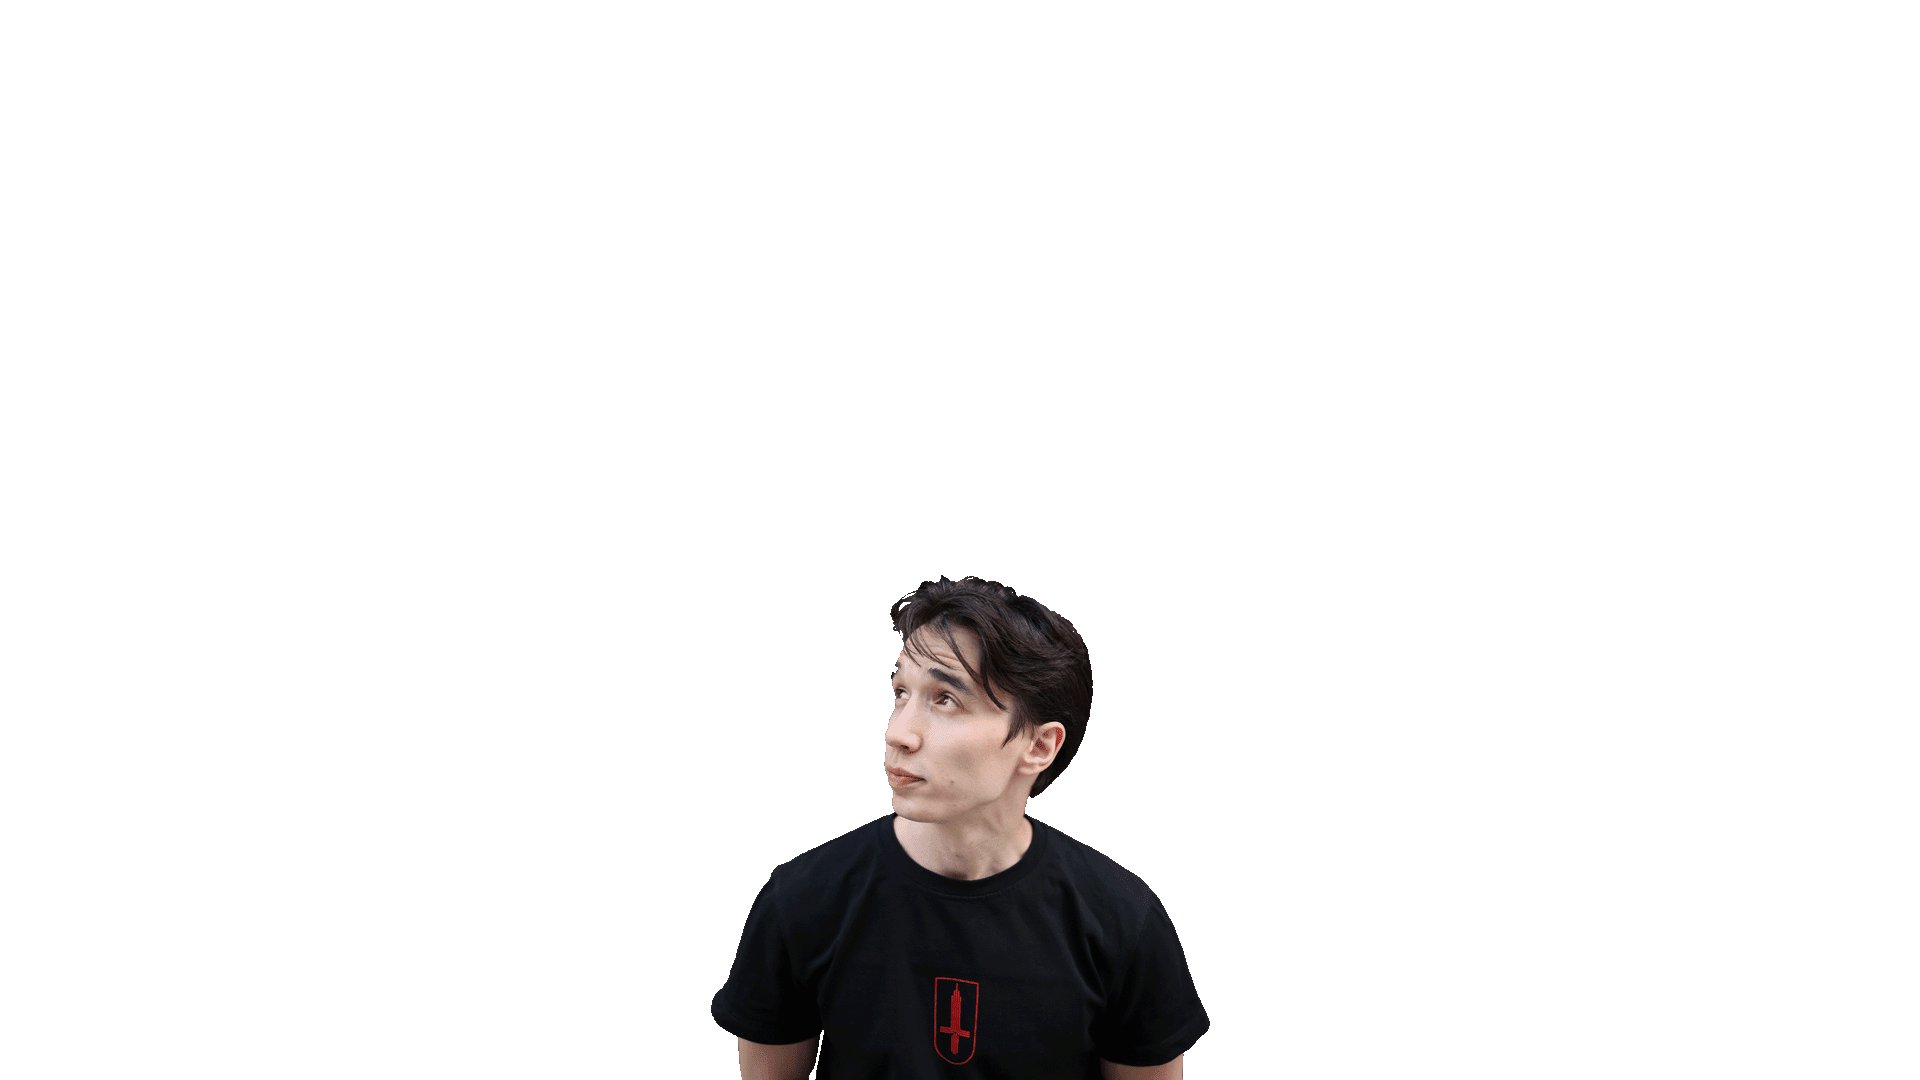
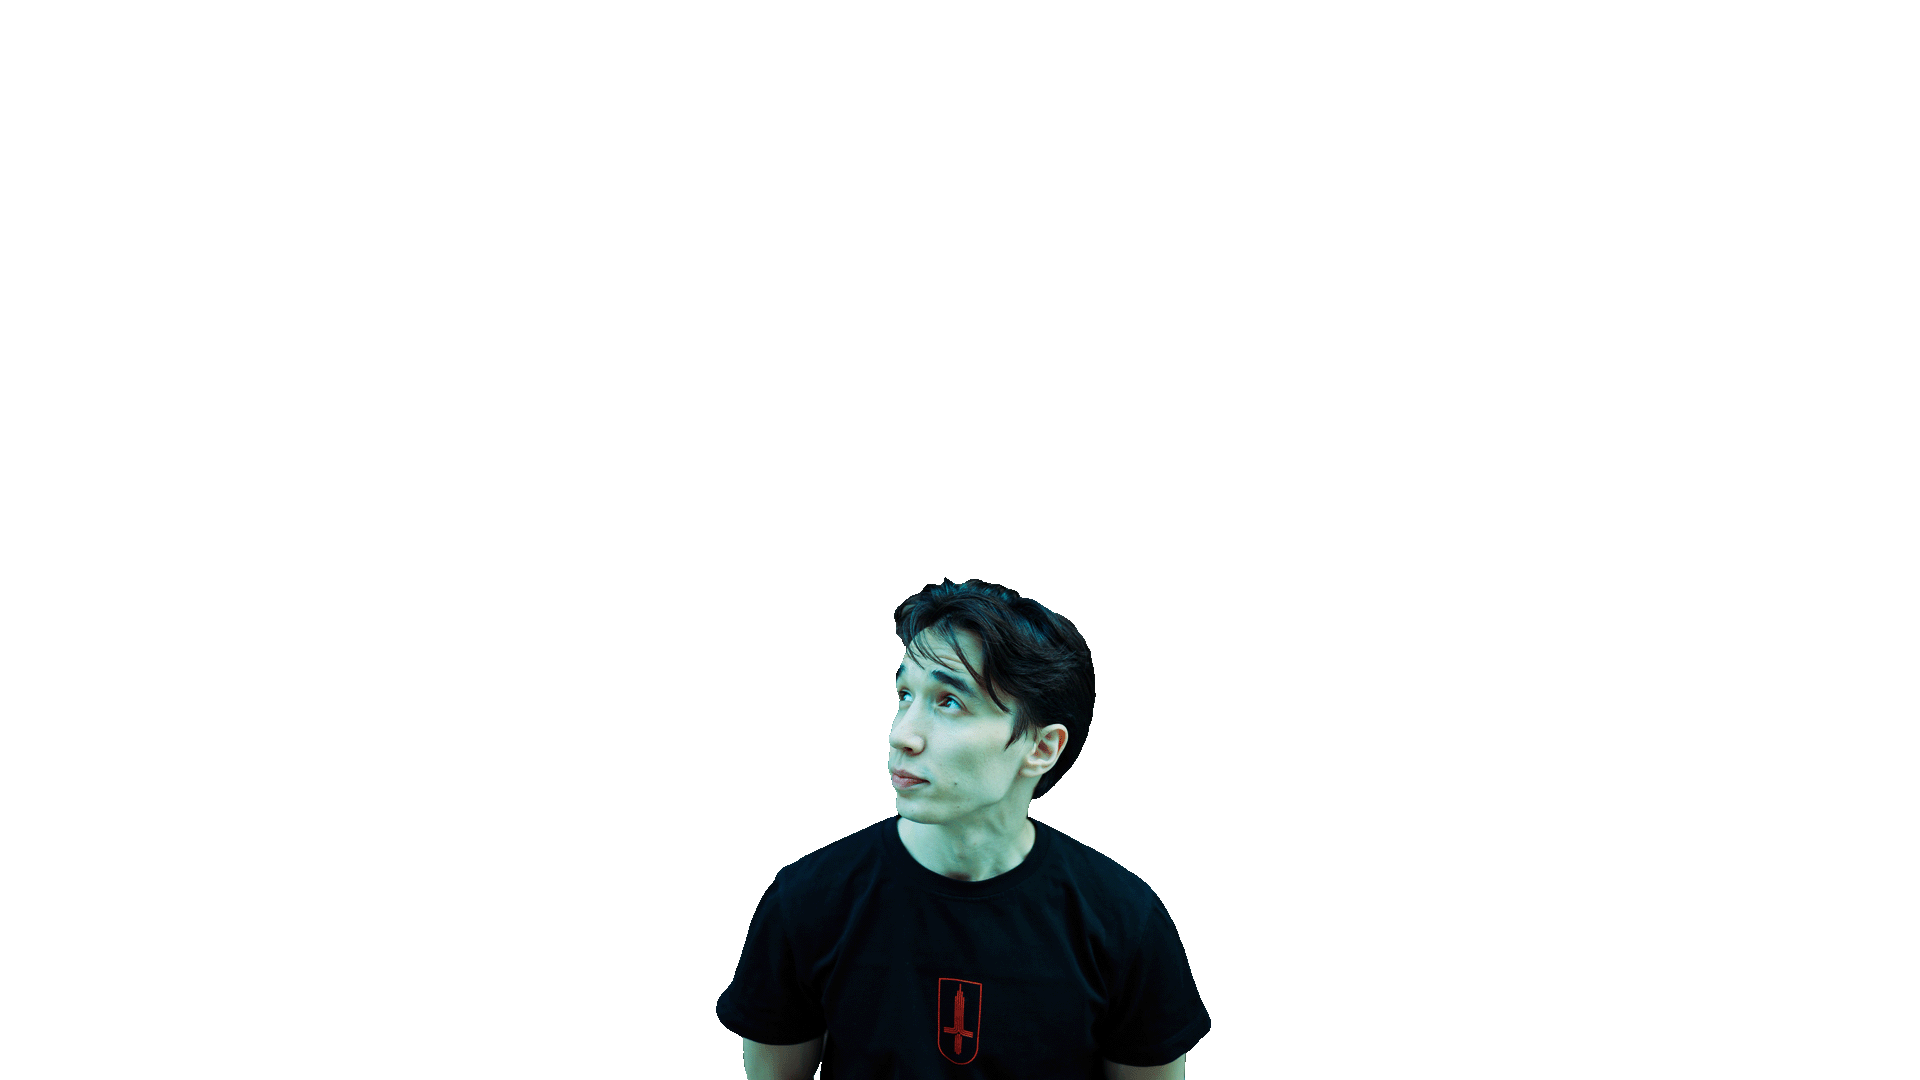
замена файлов и быстрофикс

diff --git a/src/pages/HomePage.jsx b/src/pages/HomePage.jsx
@@ -226,14 +226,14 @@ export default function HomePage() {
     setDialogueIndex(prev => prev + 1);
   };
 
-  // Зеркальный параллакс: стена и персонаж в противофазе
+  // Зеркальный параллакс с уменьшенным смещением Ramzez
   const backgroundOffset = {
     x: (isMobile ? gyroOffsets.layer1.x : layer1.x) * 2.5,
     y: (isMobile ? gyroOffsets.layer1.y : layer1.y) * 0.5,
   };
   const personaOffset = {
-    x: -backgroundOffset.x * 0.4, // зеркально с меньшей амплитудой
-    y: -backgroundOffset.y * 0.2,
+    x: -backgroundOffset.x * 0.15, // было 0.4, теперь плавнее
+    y: -backgroundOffset.y * 0.1,
   };
 
   const offsets = isMobile ? gyroOffsets : { layer1, layer2, layer3 };
@@ -416,8 +416,8 @@ export default function HomePage() {
                   style={{
                     left: isMobile ? '10%' : '25%',
                     bottom: '40%',
-                    width: '96px',
-                    height: '96px',
+                    width: '110px',
+                    height: '110px',
                   }}
                   onClick={handleTreatsClick}
                   variants={{
@@ -435,7 +435,7 @@ export default function HomePage() {
                     alt="Чай"
                     className="w-full h-full object-contain"
                     style={{
-                      filter: 'drop-shadow(0 0 15px rgba(255,80,80,0.6))',
+                      filter: 'drop-shadow(0 0 18px rgba(255,80,80,0.8)) drop-shadow(0 0 8px rgba(255,80,80,0.4))',
                     }}
                     animate={{ scale: [1, 1.1, 1] }}
                     transition={{ repeat: Infinity, duration: 2, ease: "easeInOut" }}
@@ -448,8 +448,8 @@ export default function HomePage() {
                   style={{
                     right: isMobile ? '10%' : '25%',
                     bottom: '40%',
-                    width: '96px',
-                    height: '96px',
+                    width: '110px',
+                    height: '110px',
                   }}
                   onClick={handleTreatsClick}
                   variants={{
@@ -467,7 +467,7 @@ export default function HomePage() {
                     alt="Чак-чак"
                     className="w-full h-full object-contain"
                     style={{
-                      filter: 'drop-shadow(0 0 15px rgba(255,80,80,0.6))',
+                      filter: 'drop-shadow(0 0 18px rgba(255,80,80,0.8)) drop-shadow(0 0 8px rgba(255,80,80,0.4))',
                     }}
                     animate={{ scale: [1, 1.1, 1] }}
                     transition={{ repeat: Infinity, duration: 2, ease: "easeInOut" }}

diff --git a/src/components/GlassCard.jsx b/src/components/GlassCard.jsx
@@ -4,11 +4,12 @@ export default function GlassCard({ children, className = '' }) {
   return (
     <motion.div
       whileHover={{
-        scale: 1.02,
-        backgroundColor: 'rgba(255,255,255,0.15)',
-        borderColor: 'rgba(255,255,255,0.25)',
+        scale: 1.03,
+        backgroundColor: 'rgba(255,255,255,0.18)',
+        borderColor: 'rgba(255,255,255,0.35)',
       }}
-      transition={{ type: 'spring', stiffness: 300, damping: 20 }}
+      whileTap={{ scale: 0.98 }}
+      transition={{ type: 'spring', stiffness: 400, damping: 25 }}
       className={`backdrop-blur-md bg-white/10 border border-white/20 rounded-3xl shadow-[0_8px_32px_rgba(0,0,0,0.2)] hover:shadow-[0_0_30px_rgba(255,80,80,0.3)] p-6 transition-all duration-300 ${className}`}
     >
       {children}
